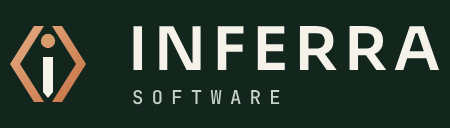
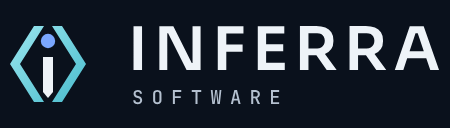
Revert "Try the ivory, forest and copper palette"
This reverts commit da5f8aaa278e3e7ccbad27933b336c9ac48136ae.

Changed region(s): [[0.0, 0.1875, 0.1867, 0.8125]]

diff --git a/src/design/tokens.css b/src/design/tokens.css
@@ -10,40 +10,40 @@
  * canvas-2 and surface. accent is decorative only (large type, rules, art).
  */
 @theme {
-  /* Ivory, Forest & Copper ("senior craft, human touch"). Other tested palettes are listed in docs/DESIGN-SYSTEM.md. */
-  --color-canvas: #f5f2ea; /* page background, warm black */
-  --color-canvas-2: #ebe6da; /* alternate band */
-  --color-surface: #fbf9f4; /* cards and panels */
-  --color-surface-2: #efebe1; /* hover / raised */
-  --color-surface-3: #e0dace; /* pressed / deepest tone */
+  /* Deep Ocean & Signal Teal ("trusted engineering partner"). Other tested palettes are listed in docs/DESIGN-SYSTEM.md. */
+  --color-canvas: #0a111c; /* page background, warm black */
+  --color-canvas-2: #0f1826; /* alternate band */
+  --color-surface: #131e2e; /* cards and panels */
+  --color-surface-2: #1a2638; /* hover / raised */
+  --color-surface-3: #223047; /* pressed / deepest tone */
 
   /* Deepest tone: media slots, cover art, code blocks */
-  --color-espresso: #12261e;
-  --color-espresso-2: #1a3329;
-  --color-on-espresso: #f5f2ea; /* 17:1 on espresso */
-  --color-on-espresso-muted: #c5d0c9; /* 10:1 on espresso */
-  --color-gold: #d79a6b;
+  --color-espresso: #060b13;
+  --color-espresso-2: #0c1420;
+  --color-on-espresso: #eef3f8; /* 17:1 on espresso */
+  --color-on-espresso-muted: #b4c0cf; /* 10:1 on espresso */
+  --color-gold: #5fd4e3;
 
   /* Restrained accents */
-  --color-accent: #2f6b55; /* antique gold: decorative, rules, large type */
-  --color-accent-strong: #1f4d3d; /* forest: button fill */
-  --color-accent-deep: #143528; /* button hover */
-  --color-on-accent: #ffffff; /* text on forest buttons */
-  --color-accent-text: #9c4a22; /* gold text, 9:1 */
-  --color-highlight: #9c4a22; /* eyebrows, links, icons, 9:1 */
-  --color-highlight-deep: #7a3a1a;
+  --color-accent: #3fb6c8; /* antique gold: decorative, rules, large type */
+  --color-accent-strong: #5fd4e3; /* teal: button fill */
+  --color-accent-deep: #a5ecf4; /* button hover */
+  --color-on-accent: #06121a; /* text on teal buttons */
+  --color-accent-text: #6fd8e6; /* gold text, 9:1 */
+  --color-highlight: #7aa7ff; /* eyebrows, links, icons, 9:1 */
+  --color-highlight-deep: #a9c4ff;
 
   /* Text */
-  --color-fg: #14261f; /* warm ivory, 14:1 */
-  --color-fg-muted: #3f5249; /* 9:1 */
-  --color-fg-subtle: #4f6058; /* 6.1:1 */
+  --color-fg: #eef3f8; /* warm ivory, 14:1 */
+  --color-fg-muted: #b4c0cf; /* 9:1 */
+  --color-fg-subtle: #8d9bae; /* 6.1:1 */
 
-  --color-line: rgb(20 38 31 / 0.13);
-  --color-line-strong: rgb(20 38 31 / 0.26);
+  --color-line: rgb(111 180 220 / 0.14);
+  --color-line-strong: rgb(111 180 220 / 0.28);
 
-  --color-success: #1f7a4d;
-  --color-warning: #8a5a00;
-  --color-danger: #b3261e;
+  --color-success: #79d197;
+  --color-warning: #e3b35a;
+  --color-danger: #f08a7a;
 
   /* Typography */
   --font-sans: var(--font-inter), ui-sans-serif, system-ui, "Segoe UI", Roboto, sans-serif;
@@ -107,40 +107,39 @@
 :root {
   --intro-count: 1100ms; /* homepage intro counter */
   --intro-hold: 1300ms; /* when the intro curtain starts to fade */
-  color-scheme: light;
-  --scene-ceramic: #f3efe6; /* main sculpture */
-  --scene-bronze: #c26a3d; /* metal rings */
-  --scene-coffee: #b7c6b9; /* dark forms */
-  --scene-gold: #c26a3d; /* thread and dust */
-  --scene-light-key: #fffaf0;
-  --scene-light-fill: #cfd8cf;
-  --scene-fog: #f5f2ea; /* match --color-canvas so depth fades into the page */
-  --scene-veil: 0.24; /* how much page colour washes over the homepage 3D (0 to 1) */
-  --scene-tone-1: #c26a3d; /* homepage chapter colour grades, see journey/chapters.ts */
-  --scene-tone-2: #2f6b55;
-  --scene-tone-3: #d79a6b;
-  --scene-tone-4: #6f8f7a;
+  color-scheme: dark;
+  --scene-ceramic: #dfe8f2; /* main sculpture */
+  --scene-bronze: #5fb8c9; /* metal rings */
+  --scene-coffee: #1a2a40; /* dark forms */
+  --scene-gold: #6fe0ee; /* thread and dust */
+  --scene-light-key: #e6f4ff;
+  --scene-light-fill: #3a6fa8;
+  --scene-fog: #0a111c; /* match --color-canvas so depth fades into the page */
+  --scene-tone-1: #6fe0ee; /* homepage chapter colour grades, see journey/chapters.ts */
+  --scene-tone-2: #7aa7ff;
+  --scene-tone-3: #4fd1a5;
+  --scene-tone-4: #a5b8ff;
 
   /* Illustrations and generated cover art (src/components/art, capabilities explorer) */
-  --art-hue: 14deg; /* covers vary from this hue to +26 degrees */
-  --art-glow: #e8b48a;
-  --art-line: #c98a5e;
-  --art-line-deep: #7a3f1f;
-  --art-fade: #9c4a22;
-  --art-pale: #f1dcc6;
-  --art-core: #fbeee0;
-  --art-text: #f5f2ea;
-  --art-label: #cdbfa8;
-  --art-muted: #8a9a8f;
-  --art-ink: #163028;
-  --art-ink-deep: #10241d;
-  --art-ink-raised: #1d3a30;
-  --art-ring: rgb(31 77 61 / 0.18);
-  --art-shadow: rgb(20 38 31 / 0.28);
+  --art-hue: 188deg; /* covers vary from this hue to +26 degrees */
+  --art-glow: #8fe3ee;
+  --art-line: #4fb3c4;
+  --art-line-deep: #1f5f7a;
+  --art-fade: #2f6f9c;
+  --art-pale: #cfe6f2;
+  --art-core: #dff3f8;
+  --art-text: #eef3f8;
+  --art-label: #a9bccd;
+  --art-muted: #6f86a0;
+  --art-ink: #0f1a2a;
+  --art-ink-deep: #0a121e;
+  --art-ink-raised: #16243a;
+  --art-ring: rgb(95 212 227 / 0.2);
+  --art-shadow: rgb(0 0 0 / 0.5);
 
   /* Glass panels floating over the 3D scene */
-  --panel-from: rgb(251 249 244 / 0.8);
-  --panel-to: rgb(239 235 225 / 0.84);
-  --panel-highlight: rgb(255 255 255 / 0.6);
-  --panel-shadow: rgb(20 38 31 / 0.22);
+  --panel-from: rgb(22 34 52 / 0.72);
+  --panel-to: rgb(10 17 28 / 0.8);
+  --panel-highlight: rgb(200 230 255 / 0.06);
+  --panel-shadow: rgb(0 0 0 / 0.55);
 }

diff --git a/src/lib/og.tsx b/src/lib/og.tsx
@@ -32,35 +32,35 @@ export async function renderOgImage({ eyebrow, title, subtitle }: { eyebrow: str
           flexDirection: "column",
           justifyContent: "space-between",
           padding: "64px 72px",
-          background: "radial-gradient(circle at 82% 38%, #2A5A47 0%, #18372B 32%, #12261E 62%)",
-          color: "#F5F2EA",
+          background: "radial-gradient(circle at 82% 38%, #1A3550 0%, #0F1D2E 32%, #0A111C 62%)",
+          color: "#EEF3F8",
           fontFamily: "Inter",
           position: "relative",
         }}
       >
         <svg width="520" height="520" viewBox="-200 -200 400 400" style={{ position: "absolute", right: -40, top: 40, opacity: 0.9 }}>
-          <circle r="60" fill="#E8B48A" fillOpacity="0.35" />
+          <circle r="60" fill="#8FE3EE" fillOpacity="0.35" />
           <circle r="16" fill="#ffffff" />
-          <ellipse rx="150" ry="44" transform="rotate(-18)" fill="none" stroke="#F1DCC6" strokeOpacity="0.8" strokeWidth="2" />
-          <ellipse rx="128" ry="36" transform="rotate(32)" fill="none" stroke="#E8B48A" strokeOpacity="0.6" strokeWidth="2" />
-          <ellipse rx="176" ry="58" transform="rotate(76)" fill="none" stroke="#F1DCC6" strokeOpacity="0.35" strokeWidth="2" />
+          <ellipse rx="150" ry="44" transform="rotate(-18)" fill="none" stroke="#CFE6F2" strokeOpacity="0.8" strokeWidth="2" />
+          <ellipse rx="128" ry="36" transform="rotate(32)" fill="none" stroke="#8FE3EE" strokeOpacity="0.6" strokeWidth="2" />
+          <ellipse rx="176" ry="58" transform="rotate(76)" fill="none" stroke="#CFE6F2" strokeOpacity="0.35" strokeWidth="2" />
         </svg>
         <div style={{ display: "flex", alignItems: "center", gap: 16 }}>
           <svg width="56" height="56" viewBox="0 0 48 48">
-            <path fill="#D79A6B" d="M17 5h5L10 24l12 19h-5L5 24z" />
-            <path fill="#D79A6B" d="M31 5h-5l12 19-12 19h5l12-19z" />
-            <path fill="#F5F2EA" d="M21.5 20.5h5V38l-2.5 3-2.5-3z" />
-            <circle fill="#E8B48A" cx="24" cy="12.5" r="3.6" />
+            <path fill="#5FD4E3" d="M17 5h5L10 24l12 19h-5L5 24z" />
+            <path fill="#5FD4E3" d="M31 5h-5l12 19-12 19h5l12-19z" />
+            <path fill="#EEF3F8" d="M21.5 20.5h5V38l-2.5 3-2.5-3z" />
+            <circle fill="#8FE3EE" cx="24" cy="12.5" r="3.6" />
           </svg>
           <div style={{ display: "flex", flexDirection: "column" }}>
             <span style={{ fontFamily: "Sora", fontSize: 28, letterSpacing: 5 }}>INFERRA</span>
-            <span style={{ fontFamily: "Mono", fontSize: 12, letterSpacing: 7, color: "#C5D0C9" }}>SOFTWARE</span>
+            <span style={{ fontFamily: "Mono", fontSize: 12, letterSpacing: 7, color: "#B4C0CF" }}>SOFTWARE</span>
           </div>
         </div>
         <div style={{ display: "flex", flexDirection: "column", maxWidth: 820 }}>
-          <span style={{ fontFamily: "Mono", fontSize: 20, letterSpacing: 4, color: "#E8B48A", textTransform: "uppercase" }}>{eyebrow}</span>
+          <span style={{ fontFamily: "Mono", fontSize: 20, letterSpacing: 4, color: "#8FE3EE", textTransform: "uppercase" }}>{eyebrow}</span>
           <span style={{ fontFamily: "Sora", fontSize: title.length > 60 ? 54 : 64, lineHeight: 1.08, marginTop: 20, letterSpacing: -1.5 }}>{title}</span>
-          {subtitle && <span style={{ fontSize: 26, color: "#C5D0C9", marginTop: 22, lineHeight: 1.4 }}>{subtitle}</span>}
+          {subtitle && <span style={{ fontSize: 26, color: "#B4C0CF", marginTop: 22, lineHeight: 1.4 }}>{subtitle}</span>}
         </div>
       </div>
     ),

diff --git a/src/app/global-error.tsx b/src/app/global-error.tsx
@@ -6,15 +6,15 @@ import { siteConfig } from "@/config/site";
 export default function GlobalError({ reset }: { error: Error & { digest?: string }; reset: () => void }) {
   return (
     <html lang="en">
-      <body style={{ margin: 0, minHeight: "100vh", display: "grid", placeItems: "center", background: "#F5F2EA", color: "#14261F", fontFamily: "system-ui, sans-serif" }}>
+      <body style={{ margin: 0, minHeight: "100vh", display: "grid", placeItems: "center", background: "#0A111C", color: "#EEF3F8", fontFamily: "system-ui, sans-serif" }}>
         <main style={{ maxWidth: 520, padding: 24 }}>
-          <p style={{ color: "#9C4A22", letterSpacing: "0.2em", fontSize: 12 }}>INFERRA SOFTWARE</p>
+          <p style={{ color: "#6FD8E6", letterSpacing: "0.2em", fontSize: 12 }}>INFERRA SOFTWARE</p>
           <h1 style={{ fontSize: 32, lineHeight: 1.2 }}>Something went wrong.</h1>
-          <p style={{ color: "#3F5249", lineHeight: 1.6 }}>Please try again. You can also call us on {siteConfig.contact.phoneDisplay}.</p>
+          <p style={{ color: "#B4C0CF", lineHeight: 1.6 }}>Please try again. You can also call us on {siteConfig.contact.phoneDisplay}.</p>
           <button
             type="button"
             onClick={reset}
-            style={{ marginTop: 16, background: "#1F4D3D", color: "#FFFFFF", border: 0, borderRadius: 999, padding: "12px 20px", fontWeight: 600, cursor: "pointer" }}
+            style={{ marginTop: 16, background: "#5FD4E3", color: "#06121A", border: 0, borderRadius: 999, padding: "12px 20px", fontWeight: 600, cursor: "pointer" }}
           >
             Try again
           </button>

diff --git a/src/lib/enquiry/format.ts b/src/lib/enquiry/format.ts
@@ -64,9 +64,9 @@ export function enquiryHtml(e: Enquiry, id: string): string {
     .join("");
   const message = escapeHtml(e.message).replace(/\n/g, "<br>");
   return `<!doctype html><html><body style="font-family:Arial,Helvetica,sans-serif;font-size:14px;line-height:1.5">
-<h2 style="margin:0 0 12px">New enquiry <span style="color:#1F4D3D">${escapeHtml(id)}</span></h2>
+<h2 style="margin:0 0 12px">New enquiry <span style="color:#1F8A9E">${escapeHtml(id)}</span></h2>
 <table style="border-collapse:collapse">${rows}</table>
 <h3 style="margin:20px 0 8px">Message</h3>
-<div style="white-space:normal;border-left:3px solid #1F4D3D;padding-left:12px">${message}</div>
+<div style="white-space:normal;border-left:3px solid #1F8A9E;padding-left:12px">${message}</div>
 </body></html>`;
 }

diff --git a/src/components/scene/experience.tsx b/src/components/scene/experience.tsx
@@ -1,6 +1,5 @@
 "use client";
 
-import { readToken } from "@/design/motion";
 import { Canvas, useFrame, useThree } from "@react-three/fiber";
 import { useEffect, useMemo, useRef, useState } from "react";
 import { usePathname } from "next/navigation";
@@ -110,7 +109,7 @@ export default function Experience({ reduced, onVeil, onReady }: { reduced: bool
   }, [choreography, pathname]);
 
   useEffect(() => {
-    if (journey) onVeil(narrow ? 0.4 : parseFloat(readToken("--scene-veil")) || 0.08);
+    if (journey) onVeil(narrow ? 0.4 : 0.08);
   }, [journey, narrow, onVeil]);
 
   useEffect(() => {

diff --git a/src/app/manifest.ts b/src/app/manifest.ts
@@ -9,8 +9,8 @@ export default function manifest(): MetadataRoute.Manifest {
     description: messaging.positioning,
     start_url: "/",
     display: "standalone",
-    background_color: "#F5F2EA",
-    theme_color: "#F5F2EA",
+    background_color: "#0A111C",
+    theme_color: "#0A111C",
     icons: [
       { src: "/brand/inferra-app-icon-192.png", sizes: "192x192", type: "image/png" },
       { src: "/brand/inferra-app-icon-512.png", sizes: "512x512", type: "image/png" },

diff --git a/src/app/layout.tsx b/src/app/layout.tsx
@@ -68,8 +68,8 @@ export const metadata: Metadata = {
 };
 
 export const viewport: Viewport = {
-  themeColor: "#F5F2EA",
-  colorScheme: "light",
+  themeColor: "#0A111C",
+  colorScheme: "dark",
 };
 
 export default function RootLayout({ children }: LayoutProps<"/">) {

diff --git a/docs/DESIGN-SYSTEM.md b/docs/DESIGN-SYSTEM.md
@@ -1,8 +1,8 @@
 # Design system and 3D experience
 
-The site uses a light, warm look ("Ivory, Forest & Copper", meant to read as
-senior craft with a human touch): ivory backgrounds, deep forest-green text and
-buttons, copper accents, frosted panels, a Fraunces serif
+The site uses a dark, cinematic look ("Deep Ocean & Signal Teal", meant to read
+as a calm, precise, trusted engineering partner): deep navy backgrounds, cool
+white text, teal and blue accents, glass panels, a Fraunces serif
 for headings and Inter for body text. On the homepage, scrolling flies a camera
 along a glowing gold thread through ten chapters, one per section. Interior
 pages keep a single 3D sculpture that moves as you scroll.
@@ -18,7 +18,6 @@ pages keep a single 3D sculpture that moves as you scroll.
 | The 3D objects in each chapter | `src/components/scene/journey/sets.tsx` |
 | Where the sculpture sits on interior pages | `src/components/scene/poses.ts` |
 | Illustration and cover-art colours | `--art-*` variables in `src/design/tokens.css` |
-| How much the page washes over the homepage 3D | `--scene-veil` in `src/design/tokens.css` |
 | Intro curtain timing | `--intro-count` and `--intro-hold` in `src/design/tokens.css` |
 | Motion helpers that read the tokens | `src/design/motion.ts` |
 | Copy | `src/config/messaging.ts`, `src/content/*`, and the home section components |
@@ -26,8 +25,7 @@ pages keep a single 3D sculpture that moves as you scroll.
 Tailwind utilities are generated from the tokens, so `bg-canvas`, `text-fg`,
 `text-highlight`, `bg-espresso`, `py-section` and `ease-editorial` all follow
 any change you make there. Every text colour passes WCAG 2.2 AA on the dark
-backgrounds; `accent` is decorative only. The previous navy and teal version is
-on `main` at commit f863342.
+backgrounds; `accent` is decorative only.
 
 To try another palette, replace the colour values in the `@theme` block and the
 `--scene-*` and `--panel-*` values in `:root`. Four tested alternatives (Forest
@@ -103,11 +101,11 @@ commit ed8123d.
 
 - **Team photos**: abstract avatars are shown until `photo` is set in
   `src/content/team.ts`.
-- **Case study and article covers**: generated forest-and-copper art (`CoverArt`).
+- **Case study and article covers**: generated navy-and-teal art (`CoverArt`).
   Pass real imagery through `MediaSlot` when available.
 - **Brand files**: the logo, favicon, app icons and lockups in `public/brand`
-  are generated in forest and copper by `npm run brand` and `npm run brand:png`.
+  are generated in navy and teal by `npm run brand` and `npm run brand:png`.
   Their colours are set at the top of `scripts/generate-brand-assets.mjs`,
   separately from tokens.css because they are standalone files.
 - **Social preview images** (`src/lib/og.tsx`) and the enquiry email use fixed
-  forest and copper values, because they render outside the site's CSS.
+  navy and teal values, because they render outside the site's CSS.
